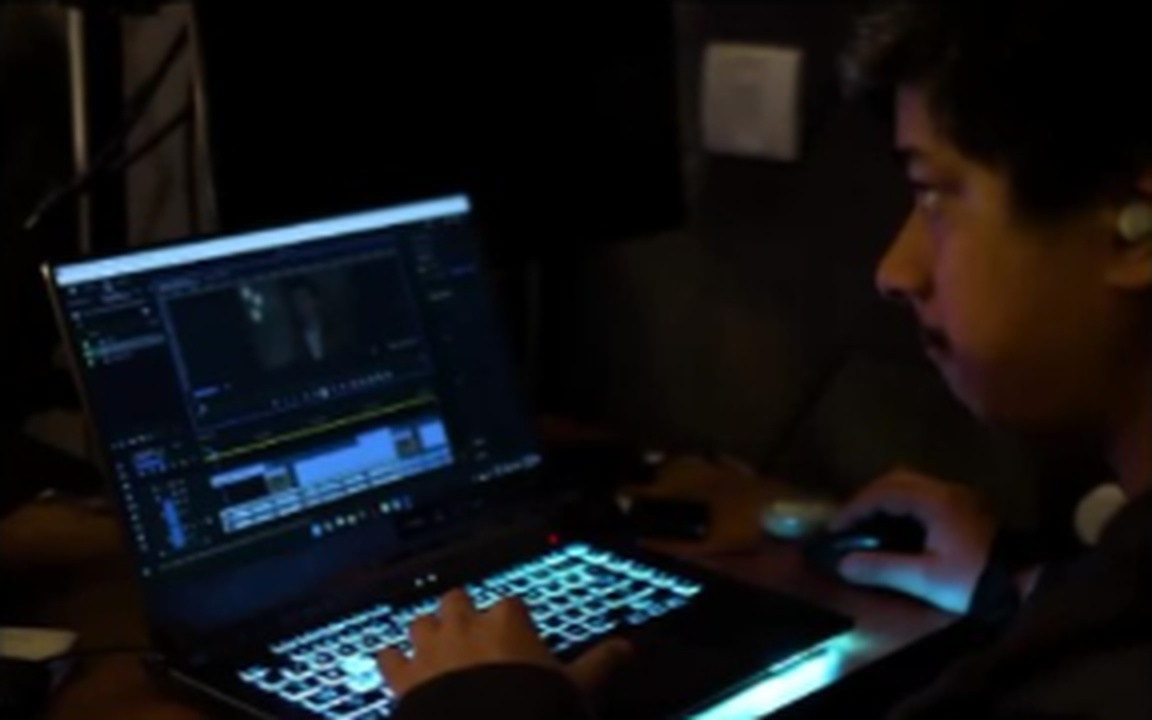
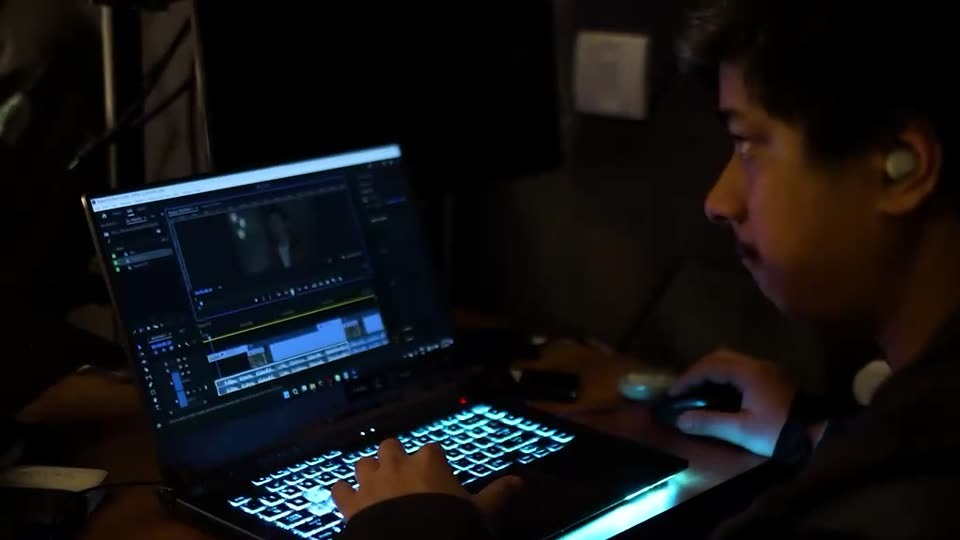
Update high quality source images for Offline Editing, Music & Sound, Colour Grading & Online, and VFX & Mastering

diff --git a/about.html b/about.html
@@ -145,20 +145,20 @@
           <h3 class="wwd-title">The Shoot Ends.<br class="br-mobile"> The Story <span class="o">Doesn't.</span></h3>
           <p class="lead">Post is where everything comes together. We refine, enhance and elevate the film so it not only looks great, but feels right.</p>
           <div class="cap-list">
-          <article class="svc cap-item" data-lightbox="assets/media/behind-the-scenes/BTS Finish 1.mp4" data-caption="Offline Editing">
-            <div class="svc-media"><video data-src="assets/media/behind-the-scenes/BTS Finish 1.mp4" data-poster="assets/images/posters/bts-finish-1.jpg" muted loop playsinline preload="none" class="hover-play"></video></div>
+          <article class="svc cap-item" >
+            <div class="svc-media"><img src="assets/images/posters/bts-finish-1.jpg" alt="Offline Editing" loading="lazy"></div>
             <div class="svc-body"><h4>Offline Editing</h4><p>Shaping performance, pacing, structure and rhythm — where the shoot becomes a story.</p></div>
           </article>
-          <article class="svc cap-item" data-lightbox="assets/media/behind-the-scenes/BTS Finish 2.mp4" data-caption="Music &amp; Sound">
-            <div class="svc-media"><video data-src="assets/media/behind-the-scenes/BTS Finish 2.mp4" data-poster="assets/images/posters/bts-finish-2.jpg" muted loop playsinline preload="none" class="hover-play"></video></div>
+          <article class="svc cap-item" >
+            <div class="svc-media"><img src="assets/images/posters/bts-finish-2.jpg" alt="Music &amp; Sound" loading="lazy"></div>
             <div class="svc-body"><h4>Music &amp; Sound</h4><p>Music, sound design, ambience and final audio finishing.</p></div>
           </article>
-          <article class="svc cap-item" data-lightbox="assets/media/behind-the-scenes/BTS Colour Grading.mp4" data-caption="Colour Grading &amp; Online">
-            <div class="svc-media"><video data-src="assets/media/behind-the-scenes/BTS Colour Grading.mp4" data-poster="assets/images/posters/bts-colour-grading.jpg" muted loop playsinline preload="none" class="hover-play"></video></div>
+          <article class="svc cap-item" >
+            <div class="svc-media"><img src="assets/images/posters/bts-colour-grading.jpg" alt="Colour Grading &amp; Online" loading="lazy"></div>
             <div class="svc-body"><h4>Colour Grading &amp; Online</h4><p>Premium colour grading, online finishing and final picture polish.</p></div>
           </article>
-          <article class="svc cap-item" data-lightbox="assets/media/behind-the-scenes/BTS VFX Mastering.mp4" data-caption="VFX &amp; Mastering">
-            <div class="svc-media"><video data-src="assets/media/behind-the-scenes/BTS VFX Mastering.mp4" data-poster="assets/images/posters/bts-vfx-mastering.jpg" muted loop playsinline preload="none" class="hover-play"></video></div>
+          <article class="svc cap-item" >
+            <div class="svc-media"><img src="assets/images/posters/bts-vfx-mastering.jpg" alt="VFX &amp; Mastering" loading="lazy"></div>
             <div class="svc-body"><h4>VFX &amp; Mastering</h4><p>Compositing &middot; Cleanup &middot; Animation &middot; VFX &middot; Motion &middot; Finishing &middot; Mastering.</p></div>
           </article>
           </div>

diff --git a/build_anava.py b/build_anava.py
@@ -971,13 +971,13 @@ def wwd_sections():
     ]
     finish = [
         ("Offline Editing", "Shaping performance, pacing, structure and rhythm — where the shoot becomes a story.",
-         "assets/media/behind-the-scenes/BTS Finish 1.mp4", "assets/images/posters/bts-finish-1.jpg"),
+         "", "assets/images/posters/bts-finish-1.jpg"),
         ("Music &amp; Sound", "Music, sound design, ambience and final audio finishing.",
-         "assets/media/behind-the-scenes/BTS Finish 2.mp4", "assets/images/posters/bts-finish-2.jpg"),
+         "", "assets/images/posters/bts-finish-2.jpg"),
         ("Colour Grading &amp; Online", "Premium colour grading, online finishing and final picture polish.",
-         "assets/media/behind-the-scenes/BTS Colour Grading.mp4", "assets/images/posters/bts-colour-grading.jpg"),
+         "", "assets/images/posters/bts-colour-grading.jpg"),
         ("VFX &amp; Mastering", "Compositing &middot; Cleanup &middot; Animation &middot; VFX &middot; Motion &middot; Finishing &middot; Mastering.",
-         "assets/media/behind-the-scenes/BTS VFX Mastering.mp4", "assets/images/posters/bts-vfx-mastering.jpg"),
+         "", "assets/images/posters/bts-vfx-mastering.jpg"),
     ]
 
     def cap_items(items):
